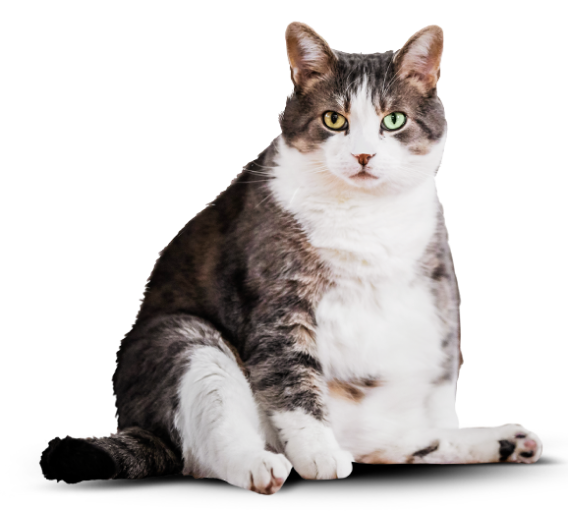
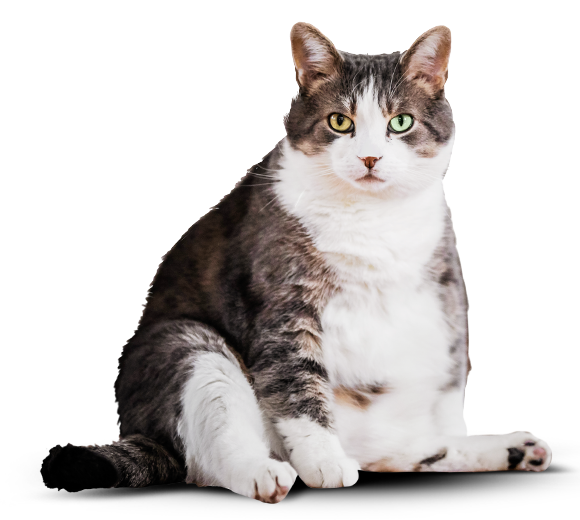
Добавляет меню nojs, правки слайдера

diff --git a/source/index.html b/source/index.html
@@ -17,7 +17,7 @@
 <body class="page__body page__body--index">
 
   <header class="header container">
-    <div class="header__container">
+    <div class="header__container header__container--nojs">
       <div class="header__wrapper">
         <a class="header__logo" href="#">
           <picture>
@@ -33,7 +33,7 @@
           <span class="visually-hidden">Открыть меню</span>
         </button>
       </div>
-      <nav class="header__nav header__nav--closed header__nav--nojs">
+      <nav class="header__nav header__nav--closed">
         <ul class="header__nav-list list-reset site-list">
           <li class="site-list__item site-list__item--active-index">
             <a class="site-list__link site-list__link--index title" href="#">Главная</a>
@@ -116,12 +116,12 @@
           <div class="case__details-wrapper">
             <dl class="case__details details-list">
               <div class="details-list__item">
-                <dd class="details-list__value title">5 кг </dd>
                 <dt class="details-list__name">снижение веса</dt>
+                <dd class="details-list__value title">5 кг </dd>
               </div>
               <div class="details-list__item">
-                <dd class="details-list__value title">60 дней </dd>
                 <dt class="details-list__name">затрачено времени</dt>
+                <dd class="details-list__value title">60 дней </dd>
               </div>
             </dl>
             <div class="case__summary title">
@@ -142,7 +142,7 @@
               <source media="(min-width: 1280px)" srcset="img/after-desktop.png 1x, img/after-desktop@2x.png 2x">
               <source media="(min-width: 768px)" srcset="img/after-tablet.png 1x, img/after-tablet@2x.png 2x">
               <img class="slider__image  slider__image--after slider__image--hidden" src="img/after.png"
-                srcset="img/before@2x.png 2x" width="243" height="232" alt="Худощавый кот.">
+                srcset="img/after@2x.png 2x" width="243" height="232" alt="Худощавый кот.">
             </picture>
           </div>
           <div class="slider__controls">

diff --git a/source/sass/blocks/header.scss b/source/sass/blocks/header.scss
@@ -1,7 +1,7 @@
 .header {
   position: relative;
   width: 100%;
-  padding: 9px 20px 14px;
+  padding: 9px 20px 0;
 
   @media (min-width: $tablet-width) {
     padding: 25px 30px 59px;
@@ -33,8 +33,22 @@
 
 .header__container {
   display: flex;
+  flex-direction: column;
   justify-content: space-between;
   align-items: center;
+
+  @media (min-width: $tablet-width) {
+    flex-direction: row;
+  }
+}
+
+.header__container--nojs .header__nav {
+  position: relative;
+  display: block;
+}
+
+.header__container--nojs .header__nav-toggle {
+  display: none;
 }
 
 .header__wrapper {
@@ -42,9 +56,11 @@
   display: flex;
   justify-content: space-between;
   align-items: center;
+  padding-bottom: 14px;
 
   @media (min-width: $tablet-width) {
     width: auto;
+    padding-bottom: 0;
   }
 }
 
@@ -185,14 +201,27 @@
 }
 
 .header__nav {
+  position: absolute;
   z-index: 1;
+  left: 0;
+  right: 0;
+  top: 100%;
+  width: 100%;
 
   @media (min-width: $tablet-width) {
     display: block;
+    position: relative;
+    width: auto;
   }
 
   &--opened {
     display: flex;
+    z-index: 1;
+    position: absolute;
+    left: 0;
+    right: 0;
+    top: 100%;
+    width: 100%;
   }
 
   &--closed {
@@ -202,18 +231,9 @@
       display: block;
     }
   }
-
-  &--nojs {
-    display: flex;
-  }
 }
 
 .header__nav-list {
-  position: absolute;
-  left: 0;
-  right: 0;
-  top: 100%;
-
   @media (min-width: $tablet-width) {
     position: static;
     display: flex;

diff --git a/source/sass/blocks/site-list.scss b/source/sass/blocks/site-list.scss
@@ -1,4 +1,5 @@
 .site-list {
+  width: 100%;
   text-transform: uppercase;
   text-align: center;
   background-color: $basic-white;
@@ -17,8 +18,19 @@
 }
 
 .site-list__item {
-  padding: 17px 20px 24px;
-  border-top: 1px solid $style-gray-300;
+  padding: 22px 20px 24px;
+  position: relative;
+  // border-top: 1px solid $style-gray-300;
+
+  &::before {
+    content: "";
+    position: absolute;
+    top: 0;
+    left: -20px;
+    width: calc(100% + 40px);
+    height: 1px;
+    background-color: $style-gray-300;
+  }
 
   @media (min-width: $tablet-width) {
     border-top: none;
@@ -26,6 +38,10 @@
     margin-top: 8px;
     margin-right: 34px;
     letter-spacing: -0.4px;
+
+    &::before {
+      display: none;
+    }
 
     &:last-child {
       margin-right: 0;

diff --git a/source/catalog.html b/source/catalog.html
@@ -17,7 +17,7 @@
 <body class="page__body">
 
   <header class="header header--catalog container">
-    <div class="header__container">
+    <div class="header__container header__container--nojs">
       <div class="header__wrapper">
         <a class="header__logo" href="index.html">
           <picture>
@@ -33,7 +33,7 @@
           <span class="visually-hidden">Открыть меню</span>
         </button>
       </div>
-      <nav class="header__nav header__nav--closed header__nav--nojs">
+      <nav class="header__nav header__nav--closed">
         <ul class="header__nav-list list-reset site-list">
           <li class="site-list__item">
             <a class="site-list__link title" href="index.html">Главная</a>

diff --git a/source/form.html b/source/form.html
@@ -17,7 +17,7 @@
 <body class="page__body">
 
   <header class="header header--form container">
-    <div class="header__container">
+    <div class="header__container header__container--nojs">
       <div class="header__wrapper">
         <a class="header__logo" href="index.html">
           <picture>
@@ -33,7 +33,7 @@
           <span class="visually-hidden">Открыть меню</span>
         </button>
       </div>
-      <nav class="header__nav header__nav--closed header__nav--nojs">
+      <nav class="header__nav header__nav--closed">
         <ul class="header__nav-list list-reset site-list">
           <li class="site-list__item">
             <a class="site-list__link title" href="index.html">Главная</a>

diff --git a/source/sass/blocks/slider.scss b/source/sass/blocks/slider.scss
@@ -38,12 +38,12 @@
   @media (min-width: $desktop-width) {
     &--before {
       transform: translate(-53%, -50%);
-      clip-path: polygon(0 0, 55% 0, 55% 100%, 0% 100%);
+      clip-path: polygon(0 0, 53% 0, 53% 100%, 0% 100%);
     }
 
     &--after {
-      transform: translate(-46%, -50%);
-      clip-path: polygon(48% 0, 100% 0, 100% 100%, 48% 100%);
+      transform: translate(-45%, -50%);
+      clip-path: polygon(45% 0, 100% 0, 100% 100%, 45% 100%);
     }
   }
 

diff --git a/source/js/script.js b/source/js/script.js
@@ -1,7 +1,8 @@
+const header = document.querySelector('.header__container');
 const navHeader = document.querySelector('.header__nav');
 const navToggle = document.querySelector('.header__nav-toggle');
 
-navHeader.classList.remove('header__nav--nojs');
+header.classList.remove('header__container--nojs');
 
 navToggle.addEventListener('click', function () {
   if (navHeader.classList.contains('header__nav--closed')) {

diff --git a/source/sass/blocks/details-list.scss b/source/sass/blocks/details-list.scss
@@ -38,6 +38,7 @@
   line-height: 12px;
   text-align: center;
   background-color: $background-color;
+  order: 1;
 
   @media (min-width: $tablet-width) {
     padding: 0 8px;
